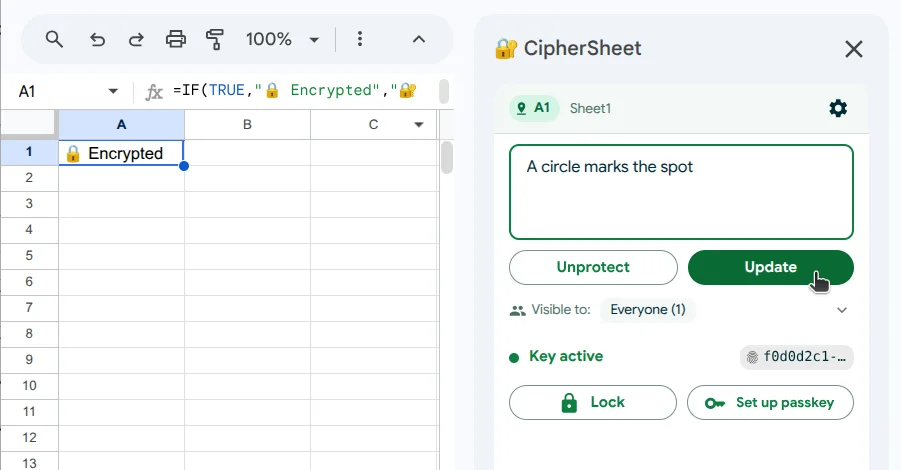
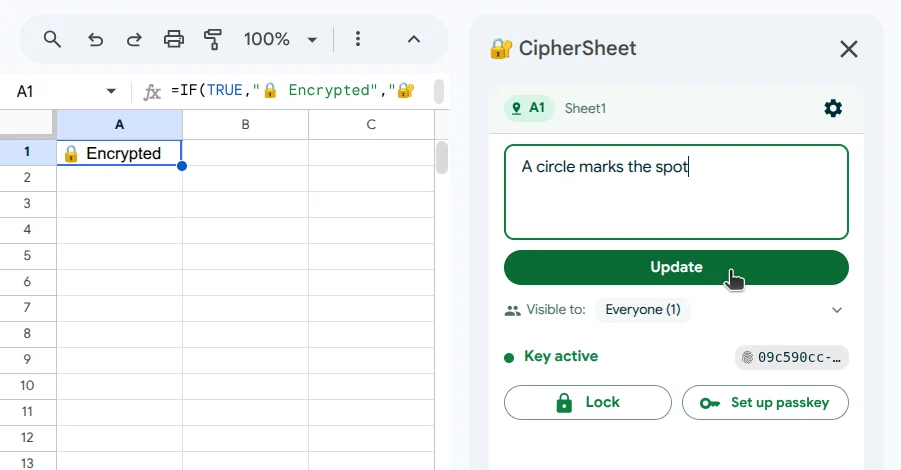
remove unprotect button

diff --git a/apps-script/server/imgs-encoded/step3-update-cell.html b/apps-script/server/imgs-encoded/step3-update-cell.html
@@ -1,1 +1,1 @@
[2 lines of base64/hex data omitted]

diff --git a/apps-script/client/src/components/cell/CellEditor.tsx b/apps-script/client/src/components/cell/CellEditor.tsx
@@ -19,7 +19,7 @@ export function CellEditor({ selectedRecipients }: CellEditorProps) {
     canEncrypt, cellIsEncrypted, keyInStorage,
     ecdhPrivKey, editors,
   } = useApp();
-  const { plaintext, setPlaintext, decryptError, encryptAndSave, requestUnprotect } = useCellOps();
+  const { plaintext, setPlaintext, decryptError, encryptAndSave } = useCellOps();
   const { loadKeyFile } = useKeyOps();
   const fileInputRef = useRef<HTMLInputElement>(null);
   const [isDragOver, setIsDragOver] = useState(false);
@@ -148,16 +148,6 @@ export function CellEditor({ selectedRecipients }: CellEditorProps) {
 
       {/* Action buttons */}
       <Box sx={{ display: 'flex', gap: 1, mt: 1, mb: 0.5 }}>
-        {cellIsEncrypted && (
-          <Button
-            variant="outlined"
-            size="small"
-            onClick={requestUnprotect}
-            sx={{ flex: 1 }}
-          >
-            Unprotect
-          </Button>
-        )}
         <Button
           variant="contained"
           size="small"

diff --git a/README.md b/README.md
@@ -71,8 +71,7 @@ If you select a cell that is already encrypted and you hold the active key, the 
 
 ### Decrypting / revealing a cell
 
-- **In-sidebar view** — if your key matches a recipient entry in the cell, the plaintext appears in the text area automatically.
-- **Reveal (write back)** — click **Unprotect** → a consent modal opens. Type the cell address to confirm. The sidebar polls for the confirmed intent, then calls `revealCell()` which writes the plaintext back to the spreadsheet. This is the **only path** where plaintext leaves the browser.
+- **In-sidebar view** — if your key matches a recipient entry in the cell, the plaintext appears in the text area automatically. You can copy it from there or edit and re-encrypt with **Update**.
 
 ### Recipients
 
@@ -110,8 +109,7 @@ Open via **🔐 CipherSheet → Settings**:
 | Private key in session | Non-extractable `CryptoKey` after first unlock — resists XSS exfiltration |
 | Recipient privacy | SHA-256(lowercase(email)) stored in payload — no plaintext emails |
 | Passkey unlock | WebAuthn PRF output decrypts a generated unlock password; secret never leaves authenticator |
-| Consent for reveal | Modal heartbeat + UserCache polling; sidebar never proceeds without server-confirmed intent |
-| Version history | User warned in consent modal; Apps Script cannot prevent Google from logging formula history |
+| Version history | Apps Script cannot prevent Google from logging formula history |
 | Type binding | `type[1]` byte is AAD for the cell-value AES-GCM ciphertext — type 0x01 (pre-shared) and 0x02 (ECDH) payloads are cryptographically non-interchangeable |
 
 ### Cell payload format
@@ -154,7 +152,6 @@ See [AGENTS.md](AGENTS.md) for the full architecture reference.
 ## Known Limitations
 
 - **Version History** — Google Sheets records formula history. A user with access to version history and the key can retrieve previously decrypted values.
-- **Reveal writes plaintext** — The "Unprotect / Reveal" flow writes plaintext back to the sheet via Apps Script; this is the one exception to zero-knowledge and is explicitly warned.
 - **Warning-only protection** — Apps Script cannot enforce edit restrictions without making the owner the sole editor. Protection warns but does not cryptographically prevent edits.
 - **Passkey PRF browser support** — WebAuthn PRF is not universally supported; password unlock is always available as a fallback.
 

diff --git a/AGENTS.md b/AGENTS.md
@@ -147,10 +147,12 @@ AGENTS.md                # This file
 
 ### Communication flow for "Reveal Cell"
 
+> **Note:** The **Unprotect** button has been removed from the sidebar UI. The server-side infrastructure (`openDecryptConfirm`, `heartbeatModalAlive`, `recordDecryptIntent`, `pollDecryptIntent`, `revealCell`) and `decrypt-confirm.html` remain in place but are not reachable from the current UI. Plaintext is only visible in-sidebar; to write it back to the cell the user must copy and paste manually.
+
 ```
 Sidebar             Apps Script (server)         decrypt-confirm.html
   |                         |                              |
-  |-- requestUnprotect() -->|                              |
+  |-- requestUnprotect() -->|                              |  ← UI entry point removed
   |                         |-- openDecryptConfirm() ----> |
   |                         |<-- heartbeatModalAlive() ----|  (every 2 s, TTL 4 s)
   |<-- pollDecryptIntent() -|                              |
@@ -329,9 +331,8 @@ Minimal scopes: current spreadsheet + container UI only. See [appsscript.json](a
 | Key exfiltration via XSS | ECDH private key non-extractable; pre-shared key non-extractable |
 | Passkey secret exposure | WebAuthn PRF output stays in the GitHub Pages popup/sidebar `postMessage` path and only decrypts the generated ECDH unlock password stored in IndexedDB |
 | Recipient identity leak | Only SHA-256(lowercase(email)) in cell payload — no plaintext emails |
-| Consent spoofing | Modal heartbeat + UserCache polling; sidebar never proceeds without server-confirmed intent |
-| Version History exposure | User warned in consent modal; cannot be prevented by the add-on |
-| "Reveal" path leakage | Plaintext reaches Apps Script on `revealCell()` — this is the only exception and is explicitly warned |
+| Version History exposure | Cannot be prevented by the add-on |
+| "Reveal" path leakage | `revealCell()` server function exists but the UI entry point (Unprotect button) is currently disabled; plaintext only appears in-sidebar |
 | Rogue public key substitution | Key fingerprints shown in recipient picker for optional out-of-band verification |
 | Type confusion (0x01 vs 0x02) | `type[1]` byte is AAD for cell-value AES-GCM — ciphertext is bound to its encryption scheme |
 
